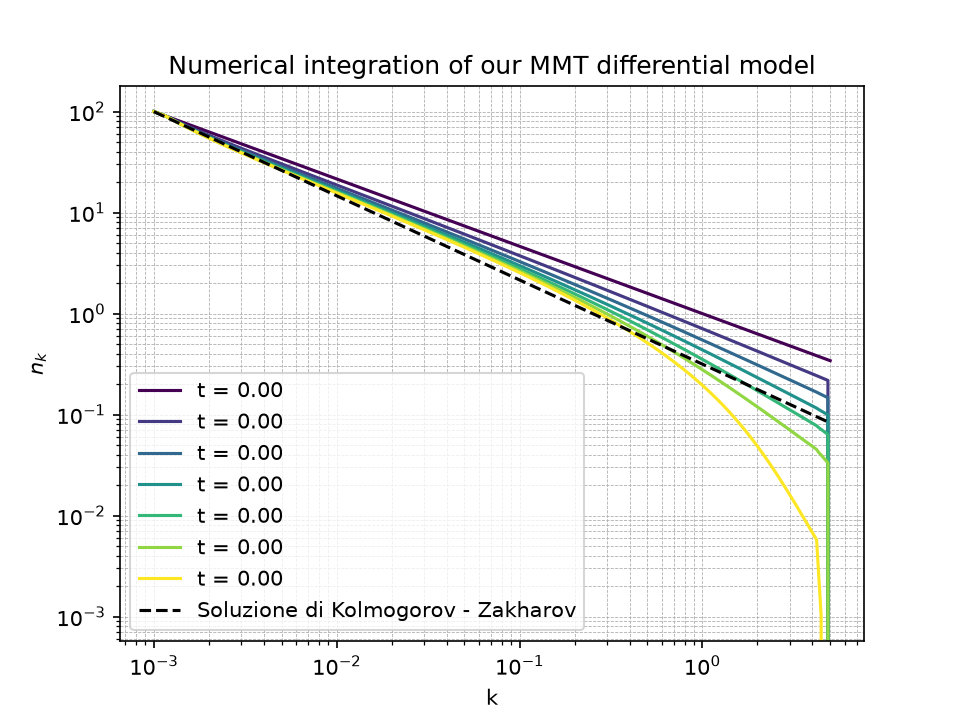
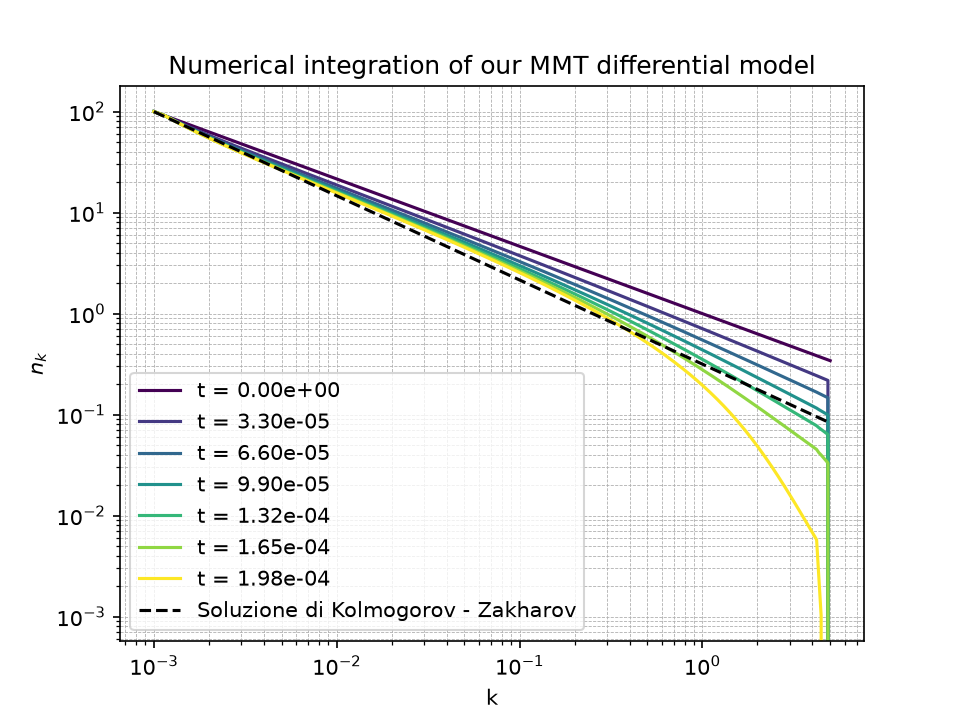
Refactor plot_results function: update time label format to scientific notation; remove unused time evaluation array

Changed region(s): [[0.25, 0.5194, 0.375, 0.825]]

diff --git a/DAM.py b/DAM.py
@@ -122,7 +122,7 @@ def plot_results(ts, ns, n_snap, k, save_path = None, show = True):
     fig, ax = plt.subplots()
     for i, j in enumerate(idx):
         t = ts[j]
-        ax.plot(k, ns[j], color=colors[i], label=f"t = {ts[j]:.2f}")
+        ax.plot(k, ns[j], color=colors[i], label=f"t = {ts[j]:.2e}")
     ax.plot(k, n_kz, color = "black", label = "Soluzione di Kolmogorov - Zakharov", ls = "--")
 
     ax.set_title("Numerical integration of our MMT differential model")

diff --git a/main_DAM.py b/main_DAM.py
@@ -28,10 +28,6 @@ p_final = np.mean(p_final[135:165])
 
 print("errore relativo sull'ultimo esponente di power law: ", np.abs(p_final + 5/6))
 
-ns.t[
-    np.linspace(0, len(ns.t)-1, 5, dtype=int)
-]
-
 #ts, ns = integrate(rhs, n_k, (0.0, 0.1),  1e-6, k, n_left_fix, dlnk, eta1, eta2)
 
 #plot_results(ts, ns, n_snap = 5, k = k, save_path = "outputs_DAM/DAM_results.png", show = False)
